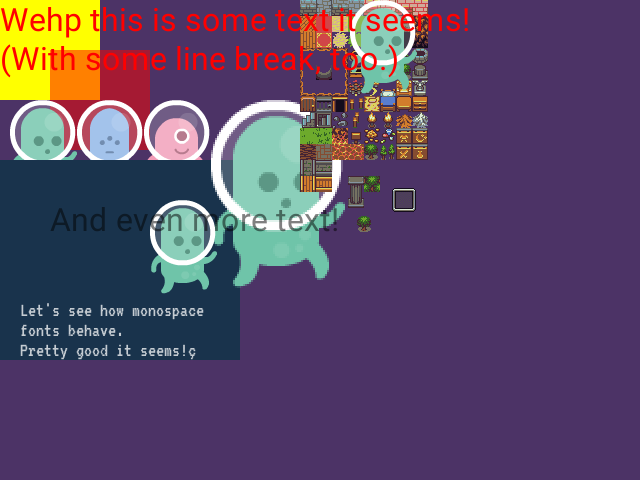
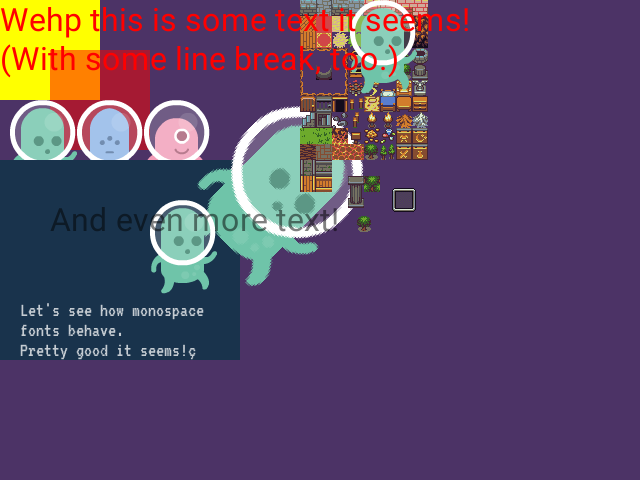
Expose render operation for rotation and such

Changed region(s): [[0.3125, 0.1875, 0.5625, 0.5938], [0.5, 0.25, 0.5312, 0.2812]]

diff --git a/tiefring/src/lib.rs b/tiefring/src/lib.rs
@@ -366,8 +366,9 @@ impl OperationBlock {
         }
     }
 
-    fn push_render_operation(&mut self, render_operation: RenderOperation) {
+    fn push_render_operation(&mut self, render_operation: RenderOperation) -> &mut RenderOperation {
         self.operations.push(render_operation);
+        self.operations.last_mut().expect("Just pushed an item")
     }
 }
 
@@ -379,7 +380,6 @@ struct DrawData {
 
 pub struct Graphics {
     current_operation_block: Option<OperationBlock>,
-    operation_blocks: Vec<OperationBlock>,
     draw_datas: Vec<DrawData>,
     size: SizeInPx,
     translation: Option<Position>,
@@ -401,7 +401,6 @@ impl Graphics {
     ) -> Self {
         Graphics {
             current_operation_block: None,
-            operation_blocks: Vec::new(),
             draw_datas: vec![],
             size: SizeInPx { width, height },
             translation: None,
@@ -414,7 +413,7 @@ impl Graphics {
         }
     }
 
-    pub fn draw_rect<R: Into<Rect>>(&mut self, rect: R, color: Color) {
+    pub fn draw_rect<R: Into<Rect>>(&mut self, rect: R, color: Color) -> &mut RenderOperation {
         let tex_coords = Rect::new(0.0, 0.0, 1.0, 1.0);
 
         let rect: Rect = if let Some(translation) = self.translation {
@@ -430,20 +429,24 @@ impl Graphics {
             tex_coords,
         };
         self.get_operation_block(&self.white_texture.clone())
-            .push_render_operation(operation);
+            .push_render_operation(operation)
     }
 
-    pub fn draw_sprite(&mut self, sprite: &Sprite, position: Position) {
+    pub fn draw_sprite(&mut self, sprite: &Sprite, position: Position) -> &mut RenderOperation {
         let destination = Rect {
             left: position.x,
             top: position.y,
             right: position.x + sprite.dimensions.width as f32,
             bottom: position.y + sprite.dimensions.height as f32,
         };
-        self.draw_sprite_in_rect(sprite, destination);
+        self.draw_sprite_in_rect(sprite, destination)
     }
 
-    pub fn draw_sprite_in_rect<R: Into<Rect>>(&mut self, sprite: &Sprite, rect: R) {
+    pub fn draw_sprite_in_rect<R: Into<Rect>>(
+        &mut self,
+        sprite: &Sprite,
+        rect: R,
+    ) -> &mut RenderOperation {
         let tex_coords = sprite.tex_coords;
         let rect: Rect = if let Some(translation) = self.translation {
             rect.into().translated(translation.x, translation.y)
@@ -459,7 +462,7 @@ impl Graphics {
             tex_coords,
         };
         self.get_operation_block(&sprite.texture)
-            .push_render_operation(operation);
+            .push_render_operation(operation)
     }
 
     pub fn draw_text<T>(
@@ -507,7 +510,6 @@ impl Graphics {
         // We cleanup buffers that were not reused previously.
         self.buffer_cache.clear();
         self.current_operation_block = None;
-        self.operation_blocks.clear();
         for draw_data in self.draw_datas.drain(..) {
             self.buffer_cache.release_buffer(draw_data.instance_buffer);
         }
@@ -792,12 +794,25 @@ impl WgpuContext {
     }
 }
 
-pub(crate) struct RenderPosition(Mat4);
+pub(crate) struct RenderPosition {
+    transformation: Mat4,
+    scale: Position,
+}
+
+impl RenderPosition {
+    pub fn matrix(&self) -> Mat4 {
+        let scale = Mat4::from_scale(Vec3::new(self.scale.x, self.scale.y, 1.0));
+        self.transformation * scale
+    }
+}
 
 impl From<Rect> for RenderPosition {
     fn from(rect: Rect) -> Self {
-        let position = Mat4::from_translation(Vec3::new(rect.left, rect.top, 0.0))
-            * Mat4::from_scale(Vec3::new(rect.width(), rect.height(), 1.0));
-        Self(position)
+        let transformation = Mat4::from_translation(Vec3::new(rect.left, rect.top, 0.0));
+        let scale = Position::new(rect.width(), rect.height());
+        Self {
+            transformation,
+            scale,
+        }
     }
 }

diff --git a/sample/src/main.rs b/sample/src/main.rs
@@ -1,3 +1,5 @@
+use std::f32::consts::PI;
+
 use tiefring::{
     sprite::{Sprite, TileSet},
     text::Font,
@@ -66,6 +68,7 @@ fn main() {
 
     window.set_visible(true);
     let mut translation = Position::new(0.0, 0.0);
+    let mut angle = PI / 4.0;
 
     event_loop.run(move |event, _, control_flow| {
         *control_flow = ControlFlow::Poll;
@@ -104,7 +107,9 @@ fn main() {
                                 a: 1.0,
                             },
                         );
-                        graphics.draw_sprite_in_rect(&alien_1, [211, 100, 345, 288]);
+                        graphics
+                            .draw_sprite_in_rect(&alien_1, [211, 100, 345, 288])
+                            .rotate(angle);
                         graphics.draw_sprite(&alien_1, Position { x: 150.0, y: 200.0 });
 
                         let (x, y) = tile_set.tile_count();
@@ -117,7 +122,7 @@ fn main() {
                                         x: i as f32 * 16.0 + 300.0,
                                         y: j as f32 * 16.0,
                                     },
-                                )
+                                );
                             }
                         }
 
@@ -180,6 +185,10 @@ fn main() {
                 translate(-10.0, 0.0, &mut translation);
             } else if input.key_pressed(VirtualKeyCode::Right) {
                 translate(10.0, 0.0, &mut translation);
+            } else if input.key_pressed(VirtualKeyCode::Q) {
+                angle -= PI / 42.0
+            } else if input.key_pressed(VirtualKeyCode::E) {
+                angle += PI / 42.0
             }
 
             if input.key_pressed(VirtualKeyCode::P) {

diff --git a/tiefring/src/renderer.rs b/tiefring/src/renderer.rs
@@ -1,4 +1,4 @@
-use glam::Mat4;
+use glam::{Mat4, Vec3};
 use wgpu::{
     util::{BufferInitDescriptor, DeviceExt},
     Buffer, BufferUsages, RenderPass, RenderPipeline, VertexBufferLayout,
@@ -97,7 +97,7 @@ impl Instance {
 
         Self {
             tex_coords,
-            position_matrix: PositionMatrix::from_mat4(&position.0),
+            position_matrix: PositionMatrix::from_mat4(&position.matrix()),
             color_matrix: *color_matrix,
         }
     }
@@ -286,10 +286,24 @@ impl Renderer {
     }
 }
 
-pub(crate) struct RenderOperation {
-    pub tex_coords: Rect,
-    pub position: RenderPosition,
-    pub color_matrix: ColorMatrix,
+pub struct RenderOperation {
+    pub(crate) tex_coords: Rect,
+    pub(crate) position: RenderPosition,
+    pub(crate) color_matrix: ColorMatrix,
+}
+
+impl RenderOperation {
+    pub fn rotate(&mut self, angle: f32) -> &mut Self {
+        let x = self.position.scale.x / 2.0;
+        let y = self.position.scale.y / 2.0;
+        let pre_translate = Mat4::from_translation(Vec3::new(x, y, 0.0));
+        let post_translate = Mat4::from_translation(Vec3::new(-x, -y, 0.0));
+        let rotation = Mat4::from_rotation_z(angle);
+        self.position.transformation =
+            self.position.transformation * pre_translate * rotation * post_translate;
+
+        self
+    }
 }
 
 pub(crate) struct RenderPreper {

diff --git a/snake/src/main.rs b/snake/src/main.rs
@@ -268,7 +268,7 @@ impl Terrain {
                         y: j as f32 * GRID_STEP,
                         x: i as f32 * GRID_STEP,
                     },
-                )
+                );
             }
         }
     }
